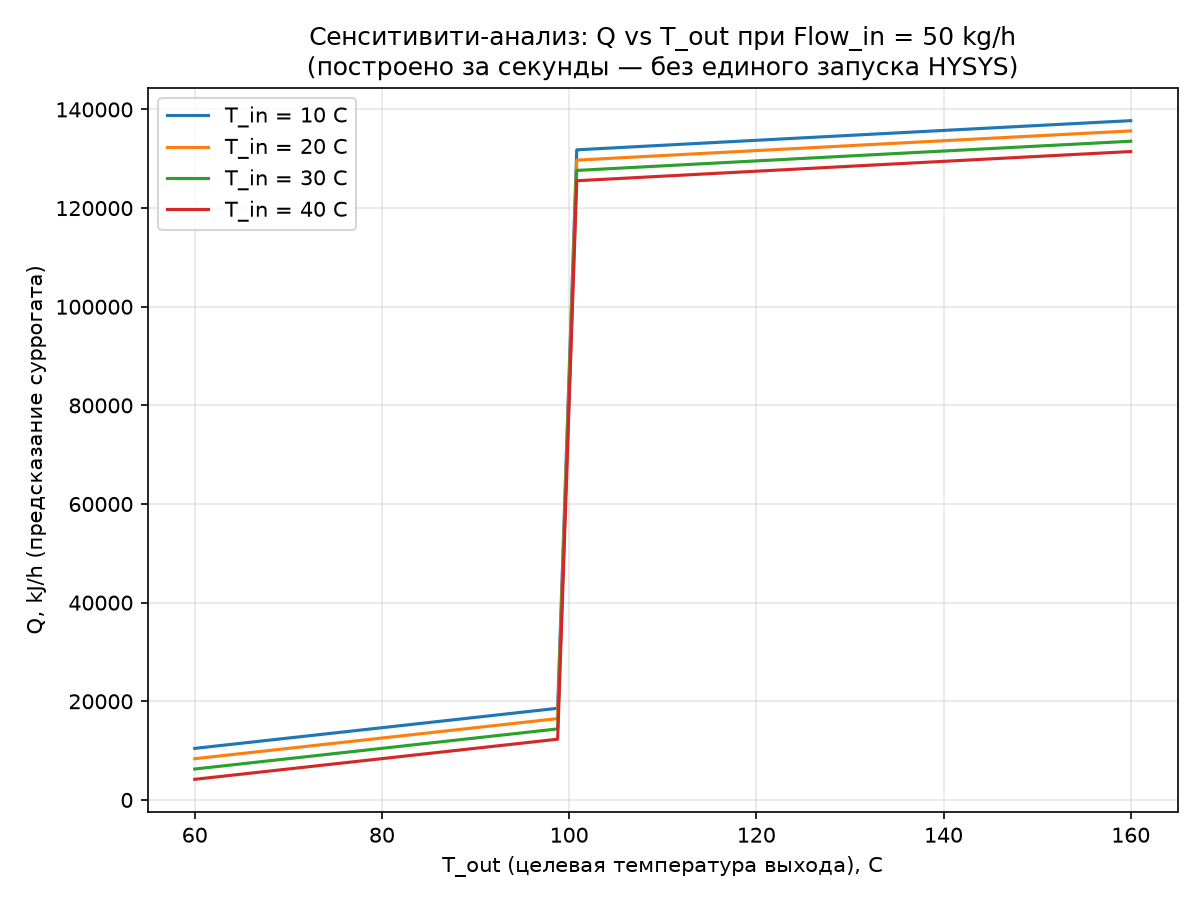
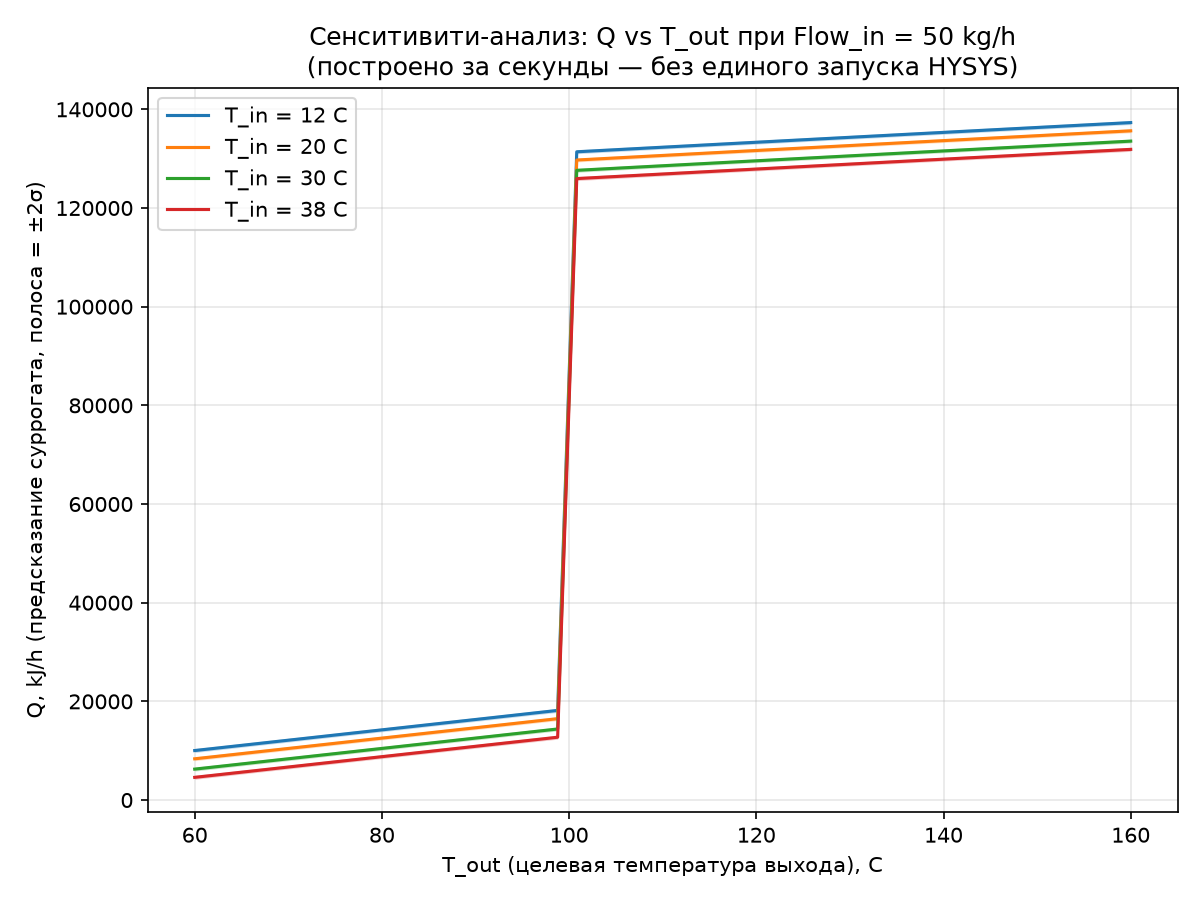
Add domain warning, std band in batch plot, and optimization script
- surrogate_model: store training ranges in the model bundle; predict_Q
  emits RuntimeWarning outside them; add get_domain().
- heater_04: plot +/-2 sigma band; keep T_in curves inside the domain.
- heater_06_optimize: brentq-based max-flow and max-T_out under the
  conservative constraint Q + 2 sigma <= Q_max, with the phase-change jump
  handled by solving the liquid and vapor branches separately.
- Add scipy to requirements, update README.

diff --git a/src/heater_06_optimize.py b/src/heater_06_optimize.py
@@ -1,0 +1,92 @@
+# -*- coding: utf-8 -*-
+"""
+ФАЗА 6 — оптимизация поверх суррогата (what-if для принятия решений).
+
+Суррогат отвечает за доли миллисекунды, поэтому его можно "крутить" в
+оптимизаторе тысячи раз — с HYSYS это было бы слишком медленно.
+
+Ограничение по мощности делаем КОНСЕРВАТИВНЫМ: требуем Q + K*sigma <= Q_max,
+где sigma — предсказанная неопределённость GP, а K = SIGMA_K (по умолчанию 2).
+Так оптимизатор не "втискивается" в запас, который модель знает не точно.
+
+Две задачи (обе по одной переменной, Q монотонно растёт по обеим):
+  A. Максимальный расход Flow при заданных T_in, T_out и лимите нагревателя Q_max.
+  B. Максимальная достижимая T_out при заданных T_in, Flow и лимите Q_max.
+     (На T_sat Q скачком растёт на скрытую теплоту: если лимит попадает в этот
+     скачок, нагреватель упирается в испарение — скрипт это сообщает.)
+
+HYSYS здесь НЕ нужен.
+"""
+
+import warnings
+
+from scipy.optimize import brentq
+
+from surrogate_model import get_domain, predict_Q, T_SAT_C
+
+SIGMA_K = 2.0   # сколько sigma запаса закладываем в ограничение по Q
+
+
+def q_upper(t_in, flow_in, t_out):
+    """Консервативная оценка Q: среднее + K*sigma."""
+    q, std = predict_Q(t_in, flow_in, t_out, return_std=True)
+    return q + SIGMA_K * std
+
+
+def max_flow(t_in, t_out, q_max):
+    """Задача A: максимальный расход (в диапазоне обучения) при Q_upper <= q_max."""
+    lo, hi = get_domain()["Flow_in_kgh"]
+    g = lambda f: q_upper(t_in, f, t_out) - q_max
+    if g(lo) > 0:
+        return None, "лимит Q_max слишком мал: нельзя нагреть даже минимальный расход"
+    if g(hi) <= 0:
+        return hi, "ограничение не активно: упёрлись в верхнюю границу расхода"
+    return brentq(g, lo, hi, xtol=1e-4), "ограничение по Q активно"
+
+
+def max_t_out(t_in, flow_in, q_max):
+    """Задача B: максимальная T_out (в диапазоне обучения) при Q_upper <= q_max."""
+    lo, hi = get_domain()["T_out_target_C"]
+    g = lambda t: q_upper(t_in, flow_in, t) - q_max
+    # Q(T_out) имеет скачок на T_sat (скрытая теплота), поэтому жидкую (T < T_sat)
+    # и паровую (T >= T_sat) ветви ищем раздельно: brentq на разрыве мог бы
+    # вернуть точку с паровой стороны, где лимит уже нарушен.
+    liq_hi = min(hi, T_SAT_C - 1e-6)
+    if g(lo) > 0:
+        return None, "лимит Q_max слишком мал даже для минимальной T_out"
+    if g(liq_hi) > 0:                                   # корень на жидкой ветви
+        return brentq(g, lo, liq_hi, xtol=1e-4), "ограничение по Q активно (жидкость)"
+    if hi < T_SAT_C:                                    # паровой ветви в домене нет
+        return hi, "ограничение не активно: упёрлись в верхнюю границу T_out"
+    if g(T_SAT_C) > 0:                                  # лимит попал в скачок
+        return liq_hi, (f"упёрлись в испарение при {T_SAT_C:g} C: лимита не хватает "
+                        f"на скрытую теплоту, берём жидкость на границе")
+    if g(hi) <= 0:
+        return hi, "ограничение не активно: упёрлись в верхнюю границу T_out"
+    return brentq(g, T_SAT_C, hi, xtol=1e-4), "ограничение по Q активно (пар)"
+
+
+if __name__ == "__main__":
+    warnings.simplefilter("always")
+
+    print("=== Задача A: максимальный расход ===")
+    t_in, t_out = 20.0, 130.0
+    for q_max in (60_000, 120_000, 150_000, 200_000):
+        f, note = max_flow(t_in, t_out, q_max)
+        if f is None:
+            print(f"  T_in={t_in:.0f} C, T_out={t_out:.0f} C, Q_max={q_max:>7,} kJ/h -> {note}")
+        else:
+            q, std = predict_Q(t_in, f, t_out, return_std=True)
+            print(f"  T_in={t_in:.0f} C, T_out={t_out:.0f} C, Q_max={q_max:>7,} kJ/h -> "
+                  f"Flow_max = {f:5.1f} kg/h  (Q = {q:,.0f} +/- {std:,.0f}; {note})")
+
+    print("\n=== Задача B: максимальная T_out ===")
+    t_in, flow = 20.0, 50.0
+    for q_max in (10_000, 20_000, 60_000, 120_000, 140_000, 200_000):
+        t, note = max_t_out(t_in, flow, q_max)
+        if t is None:
+            print(f"  T_in={t_in:.0f} C, Flow={flow:.0f} kg/h, Q_max={q_max:>7,} kJ/h -> {note}")
+        else:
+            q, std = predict_Q(t_in, flow, t, return_std=True)
+            print(f"  T_in={t_in:.0f} C, Flow={flow:.0f} kg/h, Q_max={q_max:>7,} kJ/h -> "
+                  f"T_out_max = {t:6.2f} C  (Q = {q:,.0f} +/- {std:,.0f}; {note})")

diff --git a/src/surrogate_model.py b/src/surrogate_model.py
@@ -17,6 +17,7 @@
 При другом давлении её нужно пересчитать и переобучить модель.
 """
 
+import warnings
 from pathlib import Path
 
 import joblib
@@ -77,9 +78,34 @@ def load_model(model_file=MODEL_FILE):
     return _BUNDLE["model"]
 
 
+def get_domain():
+    """Диапазоны обучения {имя признака: (min, max)} или None, если модель их не хранит."""
+    load_model()
+    return _BUNDLE.get("domain")
+
+
+def check_domain(t_in, flow_in, t_out):
+    """Предупреждает (RuntimeWarning), если вход вне диапазона обучения. Возвращает True, если всё в домене."""
+    load_model()
+    domain = _BUNDLE.get("domain")   # {имя признака: (min, max)}, сохраняется в heater_03
+    if not domain:
+        return True
+    ok = True
+    for name, val in zip(FEATURE_COLS, (t_in, flow_in, t_out)):
+        lo, hi = domain[name]
+        if not lo <= val <= hi:
+            ok = False
+            warnings.warn(f"{name}={val:g} вне диапазона обучения [{lo:g}, {hi:g}] — "
+                          f"предсказание ненадёжно", RuntimeWarning, stacklevel=3)
+    return ok
+
+
 def predict_Q(t_in, flow_in, t_out, return_std=False):
-    """Q (kJ/h) по T_in (C), Flow_in (kg/h), T_out (C); опционально ещё и std (kJ/h)."""
+    """Q (kJ/h) по T_in (C), Flow_in (kg/h), T_out (C); опционально ещё и std (kJ/h).
+
+    Если вход вне диапазона обучения, выдаётся RuntimeWarning."""
     model = load_model()
+    check_domain(t_in, flow_in, t_out)
     x = [[t_in, flow_in, t_out]]
     if return_std:
         mu, sd = model.predict(x, return_std=True)

diff --git a/src/heater_04_use_surrogate_batch.py b/src/heater_04_use_surrogate_batch.py
@@ -49,16 +49,19 @@ def run_interactive():
 # ---------------------------------------------------------------------------
 def run_batch():
     flow_in_fixed = 50.0                    # фиксируем расход
-    t_in_values = [10.0, 20.0, 30.0, 40.0]  # несколько кривых — по одной на T_in
+    t_in_values = [12.0, 20.0, 30.0, 38.0]  # несколько кривых — по одной на T_in
     t_out_range = np.linspace(60, 160, 50)  # развёртка по T_out
 
     plt.figure(figsize=(8, 6))
     for t_in in t_in_values:
-        q_values = [predict_Q(t_in, flow_in_fixed, t_out) for t_out in t_out_range]
-        plt.plot(t_out_range, q_values, marker="", label=f"T_in = {t_in:.0f} C")
+        res = np.array([predict_Q(t_in, flow_in_fixed, t_out, return_std=True) for t_out in t_out_range])
+        q_values, q_std = res[:, 0], res[:, 1]
+        line, = plt.plot(t_out_range, q_values, marker="", label=f"T_in = {t_in:.0f} C")
+        plt.fill_between(t_out_range, q_values - 2 * q_std, q_values + 2 * q_std,
+                         color=line.get_color(), alpha=0.25, linewidth=0)
 
     plt.xlabel("T_out (целевая температура выхода), C")
-    plt.ylabel("Q, kJ/h (предсказание суррогата)")
+    plt.ylabel("Q, kJ/h (предсказание суррогата, полоса = ±2σ)")
     plt.title(f"Сенситивити-анализ: Q vs T_out при Flow_in = {flow_in_fixed:.0f} kg/h\n"
               f"(построено за секунды — без единого запуска HYSYS)")
     plt.legend()

diff --git a/src/heater_03_deploy_model.py b/src/heater_03_deploy_model.py
@@ -62,6 +62,8 @@ bundle = {
     "feature_cols": FEATURE_COLS,
     "target_col": TARGET_COL,
     "t_sat_c": T_SAT_C,
+    # диапазоны обучения: по ним predict_Q предупреждает о выходе за домен
+    "domain": {c: (float(df[c].min()), float(df[c].max())) for c in FEATURE_COLS},
 }
 MODEL_FILE.parent.mkdir(exist_ok=True)
 joblib.dump(bundle, MODEL_FILE)

diff --git a/README.md b/README.md
@@ -42,8 +42,17 @@ drives via COM automation.
    analysis using the saved model (e.g. Q vs T_out across several T_in
    values), no HYSYS required.
 5. **`src/heater_05_use_surrogate_interactive.py`** — interactive console
-   querying of the saved model (enter T_in, Flow_in, T_out, get Q back
+   querying of the saved model (enter T_in, Flow_in, T_out, get Q ± σ back
    instantly).
+6. **`src/heater_06_optimize.py`** — optimization on top of the surrogate
+   (`scipy.optimize.brentq`) under a conservative constraint
+   `Q + 2σ <= Q_max`: maximum flow for a given T_out and heater limit, and
+   maximum reachable T_out for a given flow (it reports when the limit falls
+   short of the latent heat at 100 °C).
+
+`predict_Q` warns (`RuntimeWarning`) when an input is outside the training
+ranges, which are stored in the model file. The sensitivity plot shows a
+±2σ band.
 
 ## Results
 
@@ -108,12 +117,11 @@ python src/heater_03_deploy_model.py
 # afterwards, HYSYS is no longer required:
 python src/heater_04_use_surrogate_batch.py
 python src/heater_05_use_surrogate_interactive.py
+python src/heater_06_optimize.py
 ```
 
 ## Roadmap
 
 - Scale the same pipeline to a more complex unit (FCC).
-- Use the GP's predictive std in the batch plot (confidence band) and as an
-  automatic "out of domain" warning in `predict_Q`.
-- Wrap the surrogate in an optimization loop (e.g. `scipy.optimize`) for
-  real what-if decision support.
+- Multi-variable optimization (e.g. cost of Q vs throughput) with
+  `scipy.optimize.minimize`; the current script solves 1-D problems only.
